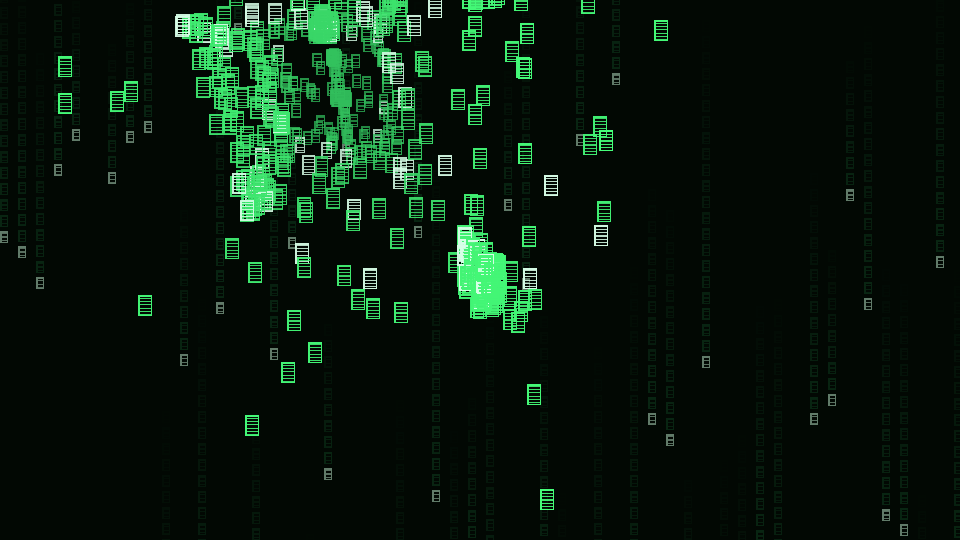
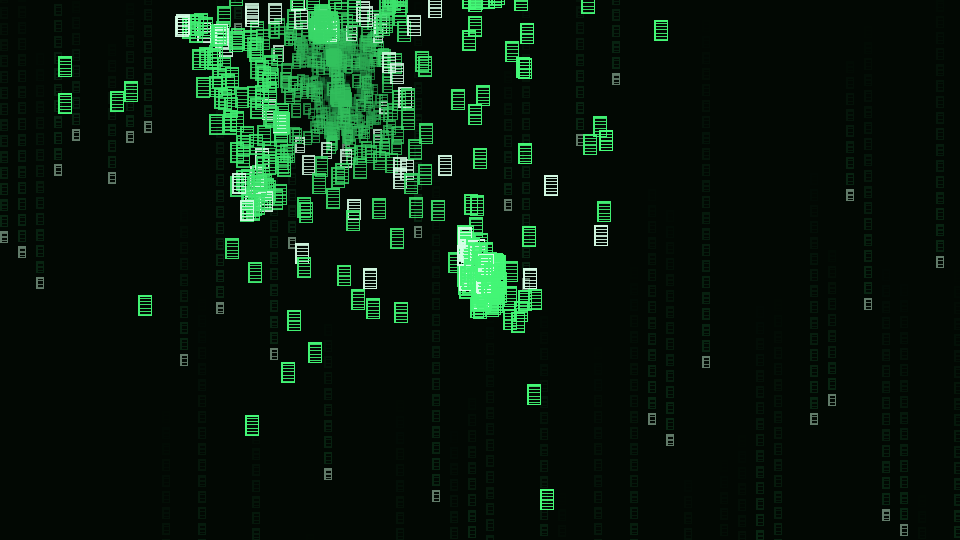
Doors answer to proximity from the first frame; the booth stops ambushing
- the endless stretch, its doors and the wrap exist from scene build:
  walk up to the far door any time and it opens for you
- the seal keeps its drama: way-back bricks, glyph pulse on the far
  door, the operator's loop line waits until the phone exists
- booth moves into the lit alcove [1.0, -1.62]: answering the phone
  is a choice, not a corridor-center collision
- suite realigned: 853 assertions green

Changed region(s): [[0.2812, 0.0593, 0.4062, 0.2667]]

diff --git a/construct/index.html b/construct/index.html
@@ -88,7 +88,7 @@
   <button id="go" type="button">ENTER</button>
   <div class="keys">WASD move · SHIFT sprint · SPACE jump · edge/right-drag to look · C code vision<br>
   E use · quick click fire/strike · just type &amp; ENTER to ask · hold V to speak · F fullscreen · M mute<br>  music · Stellardrone “Light Years” (CC BY)<br>
-  <span style="opacity:.45;font-size:10px;letter-spacing:.2em">BUILD 0702-1945</span></div>
+  <span style="opacity:.45;font-size:10px;letter-spacing:.2em">BUILD 0702-1955</span></div>
 </div>
 
 <script>
@@ -1352,7 +1352,7 @@
     var cat = inst(P2.cat(), [HALL.CAT_X0, 0, HALL.CAT_Z], Math.PI / 2, { label: 'cat', kind: 'cat', shadow: true });
     cat.pose = [0, 0, 0, 0, 0, 0];
     var farEnd = inst(mkFarEnd(), [-HL, 0, 0], 0, { label: 'far door', kind: 'farend' });
-    farEnd.state = 'shut';
+    farEnd.state = 'armed';
     var feLeaves = leafPair(-HL, null);
     s.insts.push(doorB, winI, lampI, lampA, lampB, way, cat, farEnd, feLeaves[0], feLeaves[1]);
 
@@ -1369,11 +1369,37 @@
       s.colliders.push(box2([bx - 0.35, 0, HW - 0.24], [bx + 0.35, H, HW]));
     });
     s.colliders.push(box2([-2.95, 0, HW - 0.42], [-2.05, 1.9, HW]));                // the ajar leaf
-    var farCol = box2([-HL - 0.6, 0, -HW], [-HL + 0.12, H, HW]);                    // far end (lifted at the seal)
-    s.colliders.push(farCol);
+    s.colliders.push(box2([-HL - 0.3, 0, -HW], [-HL + 0.12, H, -0.85]));            // far-door jambs
+    s.colliders.push(box2([-HL - 0.3, 0, 0.85], [-HL + 0.12, H, HW]));
     s.colliders.push(box2([HL, 0, -HW - 0.6], [HL + 2.2, H, -HW + 0.12]));          // landing sides
     s.colliders.push(box2([HL, 0, HW - 0.12], [HL + 2.2, H, HW + 0.6]));
     s.colliders.push(box2([HL + 2.02, 0, -HW], [HL + 2.25, H, HW]));                // landing back
+
+    // the corridor with no end is there from the first frame: doors that open for whoever
+    // comes near, one per period, and a wrap that keeps the far stretch the far stretch
+    var dvDoors = [];
+    function hangDoor(dx, leaves) {
+      if (s.insts.indexOf(leaves[0]) < 0) s.insts.push(leaves[0], leaves[1]);
+      var dcol = box2([dx - 0.14, 0, -0.85], [dx + 0.14, 2.05, 0.85]);
+      s.colliders.push(dcol);
+      dvDoors.push({ x: dx, leaves: leaves, col: dcol, blocked: true, a: 0, tgt: 0 });
+    }
+    hangDoor(-HL, feLeaves);
+    var segMesh = mkSegMesh();
+    for (var sk = 0; sk < 3; sk++) {
+      var scx = -HL - SEGP / 2 - sk * SEGP;
+      var seg = inst(segMesh, [scx, 0, 0], 0, { shadow: false, kind: 'segment', label: 'corridor' });
+      s.insts.push(seg);
+      var sl = inst(C.props.ceilLamp(false), [scx, H, 0], 0, { label: 'lamp', kind: 'segment', shadow: false });
+      sl.state = 'lit';
+      s.insts.push(sl);
+      s.colliders.push(box2([scx - 0.35, 0, -HW], [scx + 0.35, H, -HW + 0.24]));
+      s.colliders.push(box2([scx - 0.35, 0, HW - 0.24], [scx + 0.35, H, HW]));
+      hangDoor(scx, leafPair(scx, null));
+    }
+    s.colliders.push(box2([-HL - 3 * SEGP - 1, 0, HW - 0.15], [-HL, H, HW + 0.6]));
+    s.colliders.push(box2([-HL - 3 * SEGP - 1, 0, -HW - 0.6], [-HL, H, -HW + 0.15]));
+    s.colliders.push(box2([-HL - 3 * SEGP - 0.5, 0, -HW], [-HL - 3 * SEGP - 0.26, H, HW]));
 
     // ---- the déjà vu controller ----
     // Runs on its own fixed tick so the record is a per-tick array regardless of
@@ -1382,7 +1408,9 @@
     var dv = s.dv = {
       phase: 'settle', t: 0, p: 0, g: 0, acc: 0,
       rec: [], cat: cat, way: way,
-      cands: [doorB, winI, lampI], chosen: null, sealed: false, tap: null
+      cands: [doorB, winI, lampI], chosen: null, sealed: false, tap: null,
+      doors: dvDoors, doorA: 0,
+      loop: { at: -HL - 2 * SEGP - 0.01, hard: -HL - 2.75 * SEGP, laps: 0 }
     };
     s.update = function (game, dt) {
       dv.acc += dt;
@@ -1438,38 +1466,9 @@
           game.say(C.LINES.dejavu, 0.5);
           game.say(C.LINES.wayback, 3.0);
           dv.boothT = dv.t + 330;   // let “listen for it” land, then the phone rings
-          // ...and the far door — the one that never opens — is armed: walk up and it opens for you
-          farEnd.state = 'armed'; farEnd.label = 'corridor';
+          // the far door's code re-seeds: in code vision it now spells where it leads
+          farEnd.label = 'corridor';
           farEnd.glyphEpoch = (farEnd.glyphEpoch | 0) + 1; farEnd.reResolve = 1;
-          var fi = s.colliders.indexOf(farCol);
-          if (fi >= 0) s.colliders.splice(fi, 1);
-          s.colliders.push(box2([-HL - 0.3, 0, -HW], [-HL + 0.12, H, -0.85]));   // door jambs
-          s.colliders.push(box2([-HL - 0.3, 0, 0.85], [-HL + 0.12, H, HW]));
-          dv.doors = []; dv.doorA = 0;
-          function hangDoor(dx, leaves) {
-            if (s.insts.indexOf(leaves[0]) < 0) s.insts.push(leaves[0], leaves[1]);
-            var dcol = box2([dx - 0.14, 0, -0.85], [dx + 0.14, 2.05, 0.85]);
-            s.colliders.push(dcol);
-            dv.doors.push({ x: dx, leaves: leaves, col: dcol, blocked: true, a: 0, tgt: 0 });
-          }
-          hangDoor(-HL, feLeaves);
-          var segMesh = mkSegMesh();
-          for (var sk = 0; sk < 3; sk++) {
-            var scx = -HL - SEGP / 2 - sk * SEGP;
-            var seg = inst(segMesh, [scx, 0, 0], 0, { shadow: false, kind: 'segment', label: 'corridor' });
-            seg.loadT = 0; seg.loadDir = 1; seg._delay = 0.3 + sk * 0.12;
-            s.insts.push(seg);
-            var sl = inst(C.props.ceilLamp(false), [scx, H, 0], 0, { label: 'lamp', kind: 'segment', shadow: false });
-            sl.state = 'lit'; sl.loadT = 0; sl.loadDir = 1; sl._delay = 0.35 + sk * 0.12;
-            s.insts.push(sl);
-            s.colliders.push(box2([scx - 0.35, 0, -HW], [scx + 0.35, H, -HW + 0.24]));
-            s.colliders.push(box2([scx - 0.35, 0, HW - 0.24], [scx + 0.35, H, HW]));
-            hangDoor(scx, leafPair(scx, 0.35 + sk * 0.12));
-          }
-          s.colliders.push(box2([-HL - 3 * SEGP - 1, 0, HW - 0.15], [-HL, H, HW + 0.6]));
-          s.colliders.push(box2([-HL - 3 * SEGP - 1, 0, -HW - 0.6], [-HL, H, -HW + 0.15]));
-          s.colliders.push(box2([-HL - 3 * SEGP - 0.5, 0, -HW], [-HL - 3 * SEGP - 0.26, H, HW]));
-          dv.loop = { at: -HL - 2 * SEGP - 0.01, hard: -HL - 2.75 * SEGP, laps: 0 };
           dv.phase = 'after';
         }
       }
@@ -1505,8 +1504,10 @@
       if (dv.phase === 'after') {
         if (dv.boothT && dv.t >= dv.boothT) {
           dv.boothT = 0;
-          game.addProp('booth', [-8.3, 0, 0], Math.PI / 2, null, 0.3);
+          game.addProp('booth', [1.0, 0, -1.62], Math.PI, null, 0.3);
         }
+      }
+      {
         if (dv.loop) {
           var ppx = game.player.pos[0];
           var facingAway = Math.sin(game.player.yaw) < -0.35;   // wraps hide behind your back
@@ -1521,7 +1522,7 @@
               ring[ri].a = src ? src.a : 0;
               ring[ri].tgt = src ? src.tgt : 0;
             }
-            if (dv.loop.laps === 2) game.say(C.LINES.loop, 0.2);
+            if (dv.sealed && !dv.loopSaid) { dv.loopSaid = true; game.say(C.LINES.loop, 0.2); }
           }
         }
       }

diff --git a/construct/src/04_scenes.js b/construct/src/04_scenes.js
@@ -510,7 +510,7 @@
     var cat = inst(P2.cat(), [HALL.CAT_X0, 0, HALL.CAT_Z], Math.PI / 2, { label: 'cat', kind: 'cat', shadow: true });
     cat.pose = [0, 0, 0, 0, 0, 0];
     var farEnd = inst(mkFarEnd(), [-HL, 0, 0], 0, { label: 'far door', kind: 'farend' });
-    farEnd.state = 'shut';
+    farEnd.state = 'armed';
     var feLeaves = leafPair(-HL, null);
     s.insts.push(doorB, winI, lampI, lampA, lampB, way, cat, farEnd, feLeaves[0], feLeaves[1]);
 
@@ -527,11 +527,37 @@
       s.colliders.push(box2([bx - 0.35, 0, HW - 0.24], [bx + 0.35, H, HW]));
     });
     s.colliders.push(box2([-2.95, 0, HW - 0.42], [-2.05, 1.9, HW]));                // the ajar leaf
-    var farCol = box2([-HL - 0.6, 0, -HW], [-HL + 0.12, H, HW]);                    // far end (lifted at the seal)
-    s.colliders.push(farCol);
+    s.colliders.push(box2([-HL - 0.3, 0, -HW], [-HL + 0.12, H, -0.85]));            // far-door jambs
+    s.colliders.push(box2([-HL - 0.3, 0, 0.85], [-HL + 0.12, H, HW]));
     s.colliders.push(box2([HL, 0, -HW - 0.6], [HL + 2.2, H, -HW + 0.12]));          // landing sides
     s.colliders.push(box2([HL, 0, HW - 0.12], [HL + 2.2, H, HW + 0.6]));
     s.colliders.push(box2([HL + 2.02, 0, -HW], [HL + 2.25, H, HW]));                // landing back
+
+    // the corridor with no end is there from the first frame: doors that open for whoever
+    // comes near, one per period, and a wrap that keeps the far stretch the far stretch
+    var dvDoors = [];
+    function hangDoor(dx, leaves) {
+      if (s.insts.indexOf(leaves[0]) < 0) s.insts.push(leaves[0], leaves[1]);
+      var dcol = box2([dx - 0.14, 0, -0.85], [dx + 0.14, 2.05, 0.85]);
+      s.colliders.push(dcol);
+      dvDoors.push({ x: dx, leaves: leaves, col: dcol, blocked: true, a: 0, tgt: 0 });
+    }
+    hangDoor(-HL, feLeaves);
+    var segMesh = mkSegMesh();
+    for (var sk = 0; sk < 3; sk++) {
+      var scx = -HL - SEGP / 2 - sk * SEGP;
+      var seg = inst(segMesh, [scx, 0, 0], 0, { shadow: false, kind: 'segment', label: 'corridor' });
+      s.insts.push(seg);
+      var sl = inst(C.props.ceilLamp(false), [scx, H, 0], 0, { label: 'lamp', kind: 'segment', shadow: false });
+      sl.state = 'lit';
+      s.insts.push(sl);
+      s.colliders.push(box2([scx - 0.35, 0, -HW], [scx + 0.35, H, -HW + 0.24]));
+      s.colliders.push(box2([scx - 0.35, 0, HW - 0.24], [scx + 0.35, H, HW]));
+      hangDoor(scx, leafPair(scx, null));
+    }
+    s.colliders.push(box2([-HL - 3 * SEGP - 1, 0, HW - 0.15], [-HL, H, HW + 0.6]));
+    s.colliders.push(box2([-HL - 3 * SEGP - 1, 0, -HW - 0.6], [-HL, H, -HW + 0.15]));
+    s.colliders.push(box2([-HL - 3 * SEGP - 0.5, 0, -HW], [-HL - 3 * SEGP - 0.26, H, HW]));
 
     // ---- the déjà vu controller ----
     // Runs on its own fixed tick so the record is a per-tick array regardless of
@@ -540,7 +566,9 @@
     var dv = s.dv = {
       phase: 'settle', t: 0, p: 0, g: 0, acc: 0,
       rec: [], cat: cat, way: way,
-      cands: [doorB, winI, lampI], chosen: null, sealed: false, tap: null
+      cands: [doorB, winI, lampI], chosen: null, sealed: false, tap: null,
+      doors: dvDoors, doorA: 0,
+      loop: { at: -HL - 2 * SEGP - 0.01, hard: -HL - 2.75 * SEGP, laps: 0 }
     };
     s.update = function (game, dt) {
       dv.acc += dt;
@@ -596,38 +624,9 @@
           game.say(C.LINES.dejavu, 0.5);
           game.say(C.LINES.wayback, 3.0);
           dv.boothT = dv.t + 330;   // let “listen for it” land, then the phone rings
-          // ...and the far door — the one that never opens — is armed: walk up and it opens for you
-          farEnd.state = 'armed'; farEnd.label = 'corridor';
+          // the far door's code re-seeds: in code vision it now spells where it leads
+          farEnd.label = 'corridor';
           farEnd.glyphEpoch = (farEnd.glyphEpoch | 0) + 1; farEnd.reResolve = 1;
-          var fi = s.colliders.indexOf(farCol);
-          if (fi >= 0) s.colliders.splice(fi, 1);
-          s.colliders.push(box2([-HL - 0.3, 0, -HW], [-HL + 0.12, H, -0.85]));   // door jambs
-          s.colliders.push(box2([-HL - 0.3, 0, 0.85], [-HL + 0.12, H, HW]));
-          dv.doors = []; dv.doorA = 0;
-          function hangDoor(dx, leaves) {
-            if (s.insts.indexOf(leaves[0]) < 0) s.insts.push(leaves[0], leaves[1]);
-            var dcol = box2([dx - 0.14, 0, -0.85], [dx + 0.14, 2.05, 0.85]);
-            s.colliders.push(dcol);
-            dv.doors.push({ x: dx, leaves: leaves, col: dcol, blocked: true, a: 0, tgt: 0 });
-          }
-          hangDoor(-HL, feLeaves);
-          var segMesh = mkSegMesh();
-          for (var sk = 0; sk < 3; sk++) {
-            var scx = -HL - SEGP / 2 - sk * SEGP;
-            var seg = inst(segMesh, [scx, 0, 0], 0, { shadow: false, kind: 'segment', label: 'corridor' });
-            seg.loadT = 0; seg.loadDir = 1; seg._delay = 0.3 + sk * 0.12;
-            s.insts.push(seg);
-            var sl = inst(C.props.ceilLamp(false), [scx, H, 0], 0, { label: 'lamp', kind: 'segment', shadow: false });
-            sl.state = 'lit'; sl.loadT = 0; sl.loadDir = 1; sl._delay = 0.35 + sk * 0.12;
-            s.insts.push(sl);
-            s.colliders.push(box2([scx - 0.35, 0, -HW], [scx + 0.35, H, -HW + 0.24]));
-            s.colliders.push(box2([scx - 0.35, 0, HW - 0.24], [scx + 0.35, H, HW]));
-            hangDoor(scx, leafPair(scx, 0.35 + sk * 0.12));
-          }
-          s.colliders.push(box2([-HL - 3 * SEGP - 1, 0, HW - 0.15], [-HL, H, HW + 0.6]));
-          s.colliders.push(box2([-HL - 3 * SEGP - 1, 0, -HW - 0.6], [-HL, H, -HW + 0.15]));
-          s.colliders.push(box2([-HL - 3 * SEGP - 0.5, 0, -HW], [-HL - 3 * SEGP - 0.26, H, HW]));
-          dv.loop = { at: -HL - 2 * SEGP - 0.01, hard: -HL - 2.75 * SEGP, laps: 0 };
           dv.phase = 'after';
         }
       }
@@ -663,8 +662,10 @@
       if (dv.phase === 'after') {
         if (dv.boothT && dv.t >= dv.boothT) {
           dv.boothT = 0;
-          game.addProp('booth', [-8.3, 0, 0], Math.PI / 2, null, 0.3);
+          game.addProp('booth', [1.0, 0, -1.62], Math.PI, null, 0.3);
         }
+      }
+      {
         if (dv.loop) {
           var ppx = game.player.pos[0];
           var facingAway = Math.sin(game.player.yaw) < -0.35;   // wraps hide behind your back
@@ -679,7 +680,7 @@
               ring[ri].a = src ? src.a : 0;
               ring[ri].tgt = src ? src.tgt : 0;
             }
-            if (dv.loop.laps === 2) game.say(C.LINES.loop, 0.2);
+            if (dv.sealed && !dv.loopSaid) { dv.loopSaid = true; game.say(C.LINES.loop, 0.2); }
           }
         }
       }

diff --git a/construct/node/tests.js b/construct/node/tests.js
@@ -1602,7 +1602,7 @@ section('déjà vu: true replay');
   step(g, null, 6.0);   // the ring is held back until the operator's line lands
   const booth = g.scene.insts.find(i => i.kind === 'booth');
   ok(!!booth, 'a booth rang in at the far end');
-  g.player.pos = [booth.pos[0] + 1.6, 0, booth.pos[2]]; g.player.vel = [0, 0, 0];
+  g.player.pos = [booth.pos[0], 0, 0.3]; g.player.vel = [0, 0, 0];
   g.player.yaw = Math.atan2(booth.pos[0] - g.player.pos[0], -(booth.pos[2] - g.player.pos[2]));
   step(g, { fwd: 1 }, 1.6);
   step(g, null, 1.0);
@@ -1683,10 +1683,13 @@ section('déjà vu: infinite hallway');
 {
   const gPre = new C.Game();
   gPre.request('a hallway');
-  step(gPre, null, 1.0);   // settle: door still shut
+  step(gPre, null, 1.0);   // settle: the cat has not even entered yet
   gPre.player.pos = [-7, 0, 0]; gPre.player.vel = [0, 0, 0]; gPre.player.yaw = -Math.PI / 2;
   step(gPre, { fwd: 1, sprint: true }, 2.0);
-  ok(gPre.player.pos[0] > -HALL.HL - 0.1, 'before the seal the far door holds (' + gPre.player.pos[0].toFixed(2) + ')');
+  ok(gPre.player.pos[0] < -HALL.HL - 2, 'the far door opens for you from the very first minute (' + gPre.player.pos[0].toFixed(2) + ')');
+  ok(gPre.scene.dv.doors[0].a > 0.4 || gPre.scene.dv.doorA > 0.4, 'its leaves really swung');
+  step(gPre, { fwd: 1, sprint: true }, 4.0);
+  ok(gPre.scene.dv.loop.laps >= 2, 'the loop runs before the déjà vu is even over');
 
   const g = new C.Game();
   g.request('a hallway');